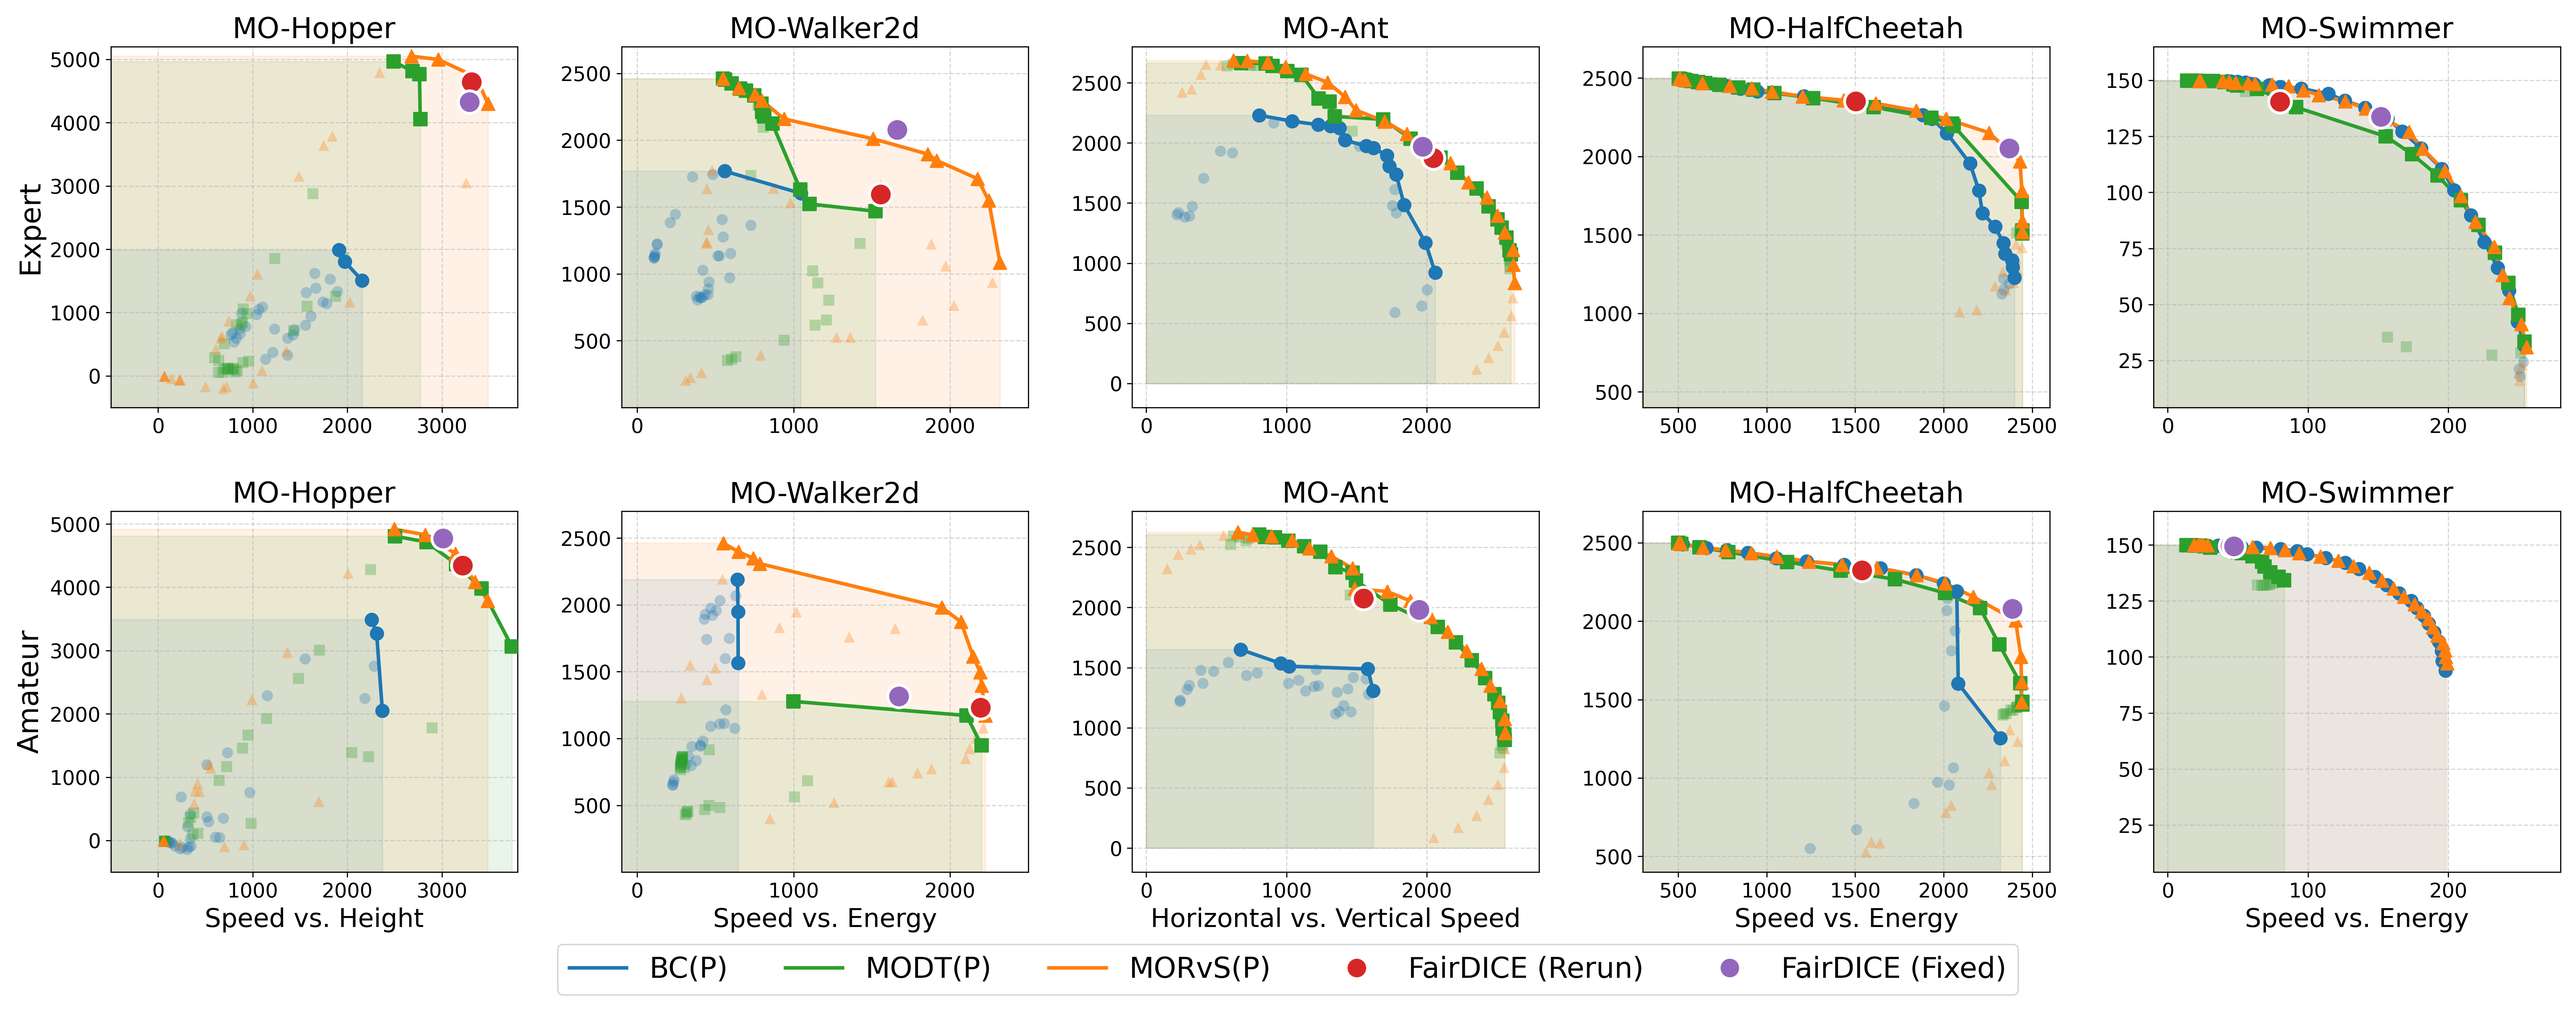
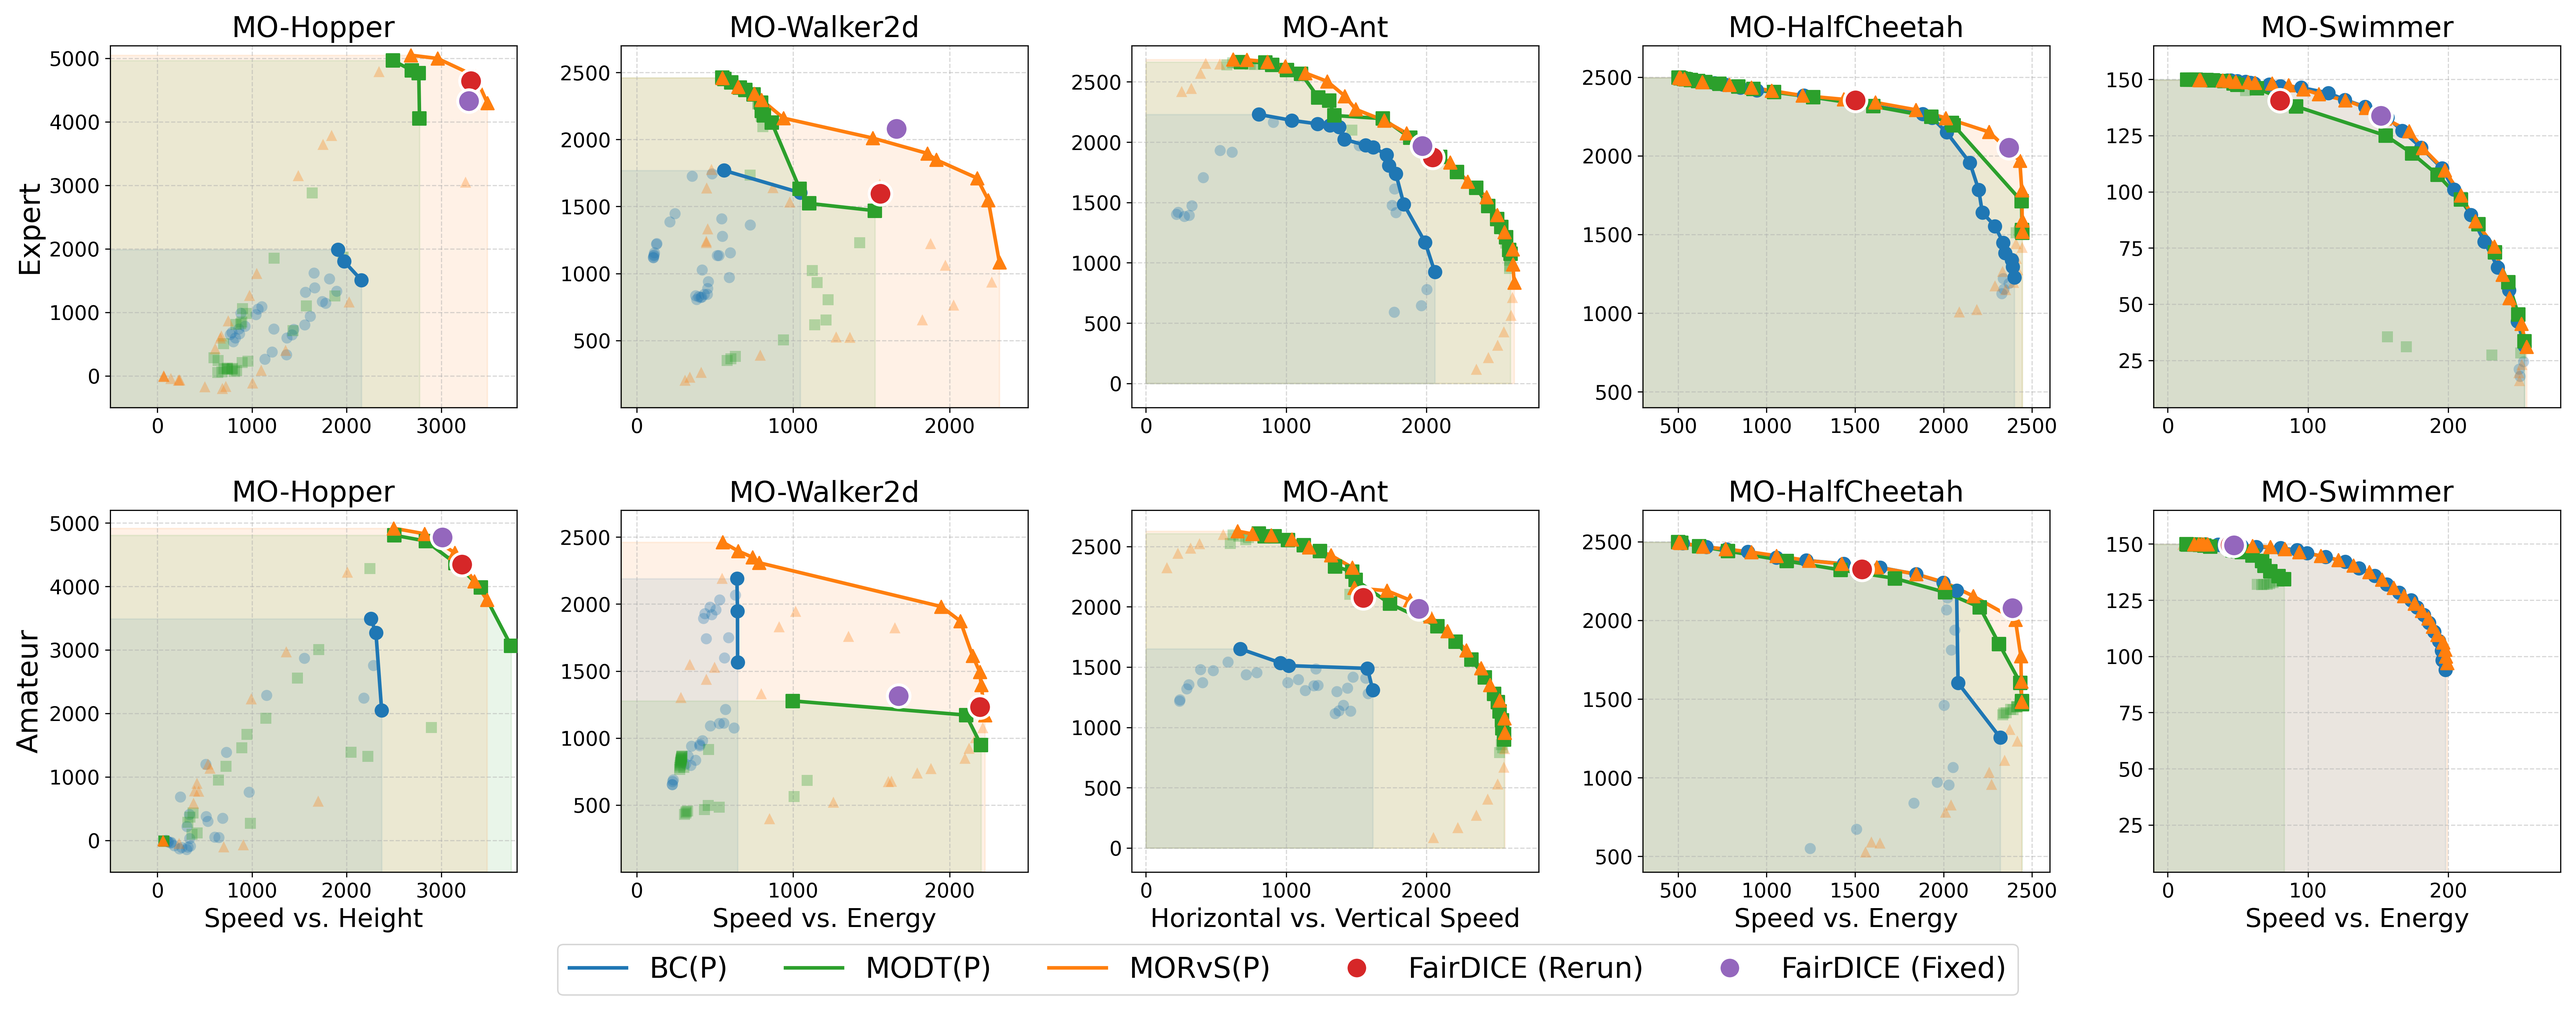
Update README, figures scripts, and requirements for easier reproduction

diff --git a/figures/data_figure_5.py b/figures/data_figure_5.py
@@ -12,7 +12,7 @@ BC_FILE   = "bc_main"
 MODT_FILE = "modt_main"
 RVS_FILE  = "rvs_main"
 
-BASE_GLOB_PATTERN = "/home/scur0076/PEDA/results/{FILE_NAME}/{ENV}/{TYPE}/**/seed={seed}/logs/step=100000_rollout.pkl"
+BASE_GLOB_PATTERN = os.path.join(os.path.dirname(os.path.dirname(os.path.abspath(__file__))), "results", "{FILE_NAME}/{ENV}/{TYPE}/**/seed={seed}/logs/step=100000_rollout.pkl")
 
 def load_and_aggregate(file_name):
     aggregated_data = {}
@@ -112,7 +112,7 @@ def load_and_aggregate(file_name):
     print(f"\n--- Evaluation Results (Raw Returns) for {file_name} ---")
     print(df.to_string(index=False))
     
-    output_dir = os.path.join("/home/scur0076/PEDA/figures", ENV, TYPE)
+    output_dir = os.path.join(os.path.dirname(os.path.abspath(__file__)), ENV, TYPE)
     os.makedirs(output_dir, exist_ok=True)
     csv_path = os.path.join(output_dir, f"{file_name}_figure_5.csv")
     df.to_csv(csv_path, index=False)

diff --git a/figures/data_figure_4.py b/figures/data_figure_4.py
@@ -14,7 +14,7 @@ MODT_FILE = "modt_main"
 RVS_FILE  = "rvs_main"
 
 
-BASE_GLOB_PATTERN = "/home/scur0076/PEDA/results/{FILE_NAME}/{ENV}/{TYPE}/**/seed={seed}/logs/step=100000_rollout.pkl"
+BASE_GLOB_PATTERN = os.path.join(os.path.dirname(os.path.dirname(os.path.abspath(__file__))), "results", "{FILE_NAME}/{ENV}/{TYPE}/**/seed={seed}/logs/step=100000_rollout.pkl")
 
 def load_and_aggregate(file_name):
     all_seeds_nsw = {}
@@ -127,7 +127,7 @@ def load_and_aggregate(file_name):
     
     print(f"STATS for {file_name}: Average Std Dev across preferences: {np.mean(avg_stds):.4f}")
     
-    output_dir = os.path.join("/home/scur0076/PEDA/figures", ENV, TYPE)
+    output_dir = os.path.join(os.path.dirname(os.path.abspath(__file__)), ENV, TYPE)
     os.makedirs(output_dir, exist_ok=True)
     csv_path = os.path.join(output_dir, f"{file_name}_figure_4.csv")
     df.to_csv(csv_path, index=False)

diff --git a/figures/plot_figure_6.py b/figures/plot_figure_6.py
@@ -26,7 +26,7 @@ def plot_combined_figure_6():
         ('rvs', '#ff7f0e', '^', 'MORvS(P)')
     ]
 
-    base_path = "/home/scur0076/PEDA/figures"
+    base_path = os.path.dirname(os.path.abspath(__file__))
     with open(os.path.join(base_path, 'scores.json'), 'r') as f:
         scores_data = json.load(f)
 
@@ -159,7 +159,7 @@ def plot_combined_figure_6():
     
     fig.legend(handles=legend_elements, loc='lower center', ncol=5, bbox_to_anchor=(0.5, 0.0), fontsize=16)
 
-    output_path = "/home/scur0076/PEDA/figures/replication_figure_6.png"
+    output_path = os.path.join(base_path, "replication_figure_6.png")
     plt.savefig(output_path, dpi=300, bbox_inches='tight')
     print(f"Saved Combined Final Figure to {output_path}")
 

diff --git a/figures/plot_figure_4.py b/figures/plot_figure_4.py
@@ -23,7 +23,7 @@ def plot_figure_4():
         "Amateur": "amateur_uniform"
     }
 
-    base_path = "/home/scur0076/PEDA/figures"
+    base_path = os.path.dirname(os.path.abspath(__file__))
     
     with open(os.path.join(base_path, 'scores.json'), 'r') as f:
         scores_data = json.load(f)

diff --git a/figures/plot_figure_5.py b/figures/plot_figure_5.py
@@ -47,7 +47,7 @@ def plot_figure_5():
         "Amateur": "amateur_uniform"
     }
 
-    base_path = "/home/scur0076/PEDA/figures"
+    base_path = os.path.dirname(os.path.abspath(__file__))
     
     with open(os.path.join(base_path, 'scores.json'), 'r') as f:
         scores_data = json.load(f)

diff --git a/figures/data_loader_6.py b/figures/data_loader_6.py
@@ -4,7 +4,7 @@ import os
 
 def load_data(dataset_type, method, subsample_size=50):
 
-    base_path = "/home/scur0076/PEDA/results"
+    base_path = os.path.join(os.path.dirname(os.path.dirname(os.path.abspath(__file__))), "results")
     
 
     configs = {

diff --git a/README.md b/README.md
@@ -1,55 +1,41 @@
-# Scaling Pareto-Efficient Decision Making via Offline Multi-Objective RL (ICLR 2023)
+# PEDA Experiment Environment
 
-[Website](https://baitingzbt.github.io/projects/iclr_2023_morl/) | [Poster](https://iclr.cc/media/PosterPDFs/ICLR%202023/11257.png?t=1680814838.1065722) | [OpenReview](https://openreview.net/forum?id=Ki4ocDm364)
+This repository is a copy of the original [PEDA](https://github.com/baitingzbt/PEDA) project, enhanced with improved environment management and figure reproduction scripts.
 
-Authors: [Baiting Zhu](https://baitingzbt.github.io/), [Meihua Dang](https://cs.stanford.edu/~mhdang/), [Aditya Grover](https://aditya-grover.github.io/)
+## Environment Management
 
-## Setup
-  ```
-  git clone https://github.com/baitingzbt/PEDA.git
-  cd PEDA
-  conda env create -f environment.yml
-  conda activate peda_env
-  ```
+### Training (Pixi)
+For training (Linux-based), we use [Pixi](https://pixi.sh/).
 
-## Data Download
-This folder contain all dataset variants used in the paper experiments including ablation study. All variants: check "generate your own data" section below.
-```
-pip install gdown
-gdown --folder https://drive.google.com/drive/folders/1wfd6BwAu-hNLC9uvsI1WPEOmPpLQVT9k?usp=sharing --output data
-```
-The "data" folder should be under "PEDA" e.g.: `PEDA/data/env/data_name.pkl`
-## Training
-First double-check your CUDA devices and data path in this shell script. Run the uniform experiments for all environments:
-```
-sh all_env_uniform.sh
-```
-Alternatively, here is an example for a single experiment:
-```
-python experiment.py --dir experiment_runs/uniform --env MO-HalfCheetah-v2 --data_mode _formal --concat_state_pref 1 --concat_rtg_pref 0 --concat_act_pref 0 --mo_rtg True --seed 1 --dataset expert_uniform --model_type rvs --num_steps_per_iter 200000 --max_iters 2
+Install Pixi:
+```bash
+curl -fsSL https://pixi.sh/install.sh | bash
 ```
 
-## Generate Your Own Data (WIP)
-Due to storage limit, we cannot easily open-source all data variants. Please check the source code to collect data. First download ckpts from  [https://drive.google.com/file/d/1_-B0UAt57JV-Jc1aBYEasuEgmR7nouaf/view?usp=sharing](https://drive.google.com/file/d/1_-B0UAt57JV-Jc1aBYEasuEgmR7nouaf/view?usp=sharing). Unzip, rename folder to `Precomputed_Result`, and move this folder under `data_generation`.
+Enter environment:
+```bash
+pixi shell
 ```
-# DOWNLOAD, UPZIP, RENAME, MOVE
 
-# USE AFTER MANUAL SETUP
-cd data_generation
-sh collect_all.sh
-```
-Note 1: We use randomly-initialized environments which is different from behavioral policy paper. This helps to diversify trajectories.
+### Plotting (Pip)
+For checking and reproducing figures (lighter, works on macOS/Linux), use standard pip.
 
-Note 2: Model ckpts are stored under `PEDA/data_generation/Precomputed_Results`. All were kindly provided by the authors of behavioral policy paper, except that we trained Hopper-v3 ourselves.
-## Citation
-If you use this repo, please cite:
+Setup (using venv):
+```bash
+python3 -m venv .venv
+source .venv/bin/activate
+pip install -r figures/requirements.txt
 ```
-@inproceedings{
-    zhu2023paretoefficient,
-    title     = {Scaling Pareto-Efficient Decision Making via Offline Multi-Objective RL},
-    author    = {Baiting Zhu and Meihua Dang and Aditya Grover},
-    booktitle = {International Conference on Learning Representations},
-    year      = {2023},
-    url       = {https://openreview.net/forum?id=Ki4ocDm364}
-}
+
+## Figures
+The `figures/` directory contains scripts and data to reproduce Figures 4, 5, and 6.
+
+To reproduce the figures using the provided CSV data:
+```bash
+source .venv/bin/activate
+python3 figures/plot_figure_4.py
+python3 figures/plot_figure_5.py
+python3 figures/plot_figure_6.py
 ```
+
+The raw result processing scripts (`data_figure_X.py`) are also included but require the full raw experiment results (pkl files) to run.
